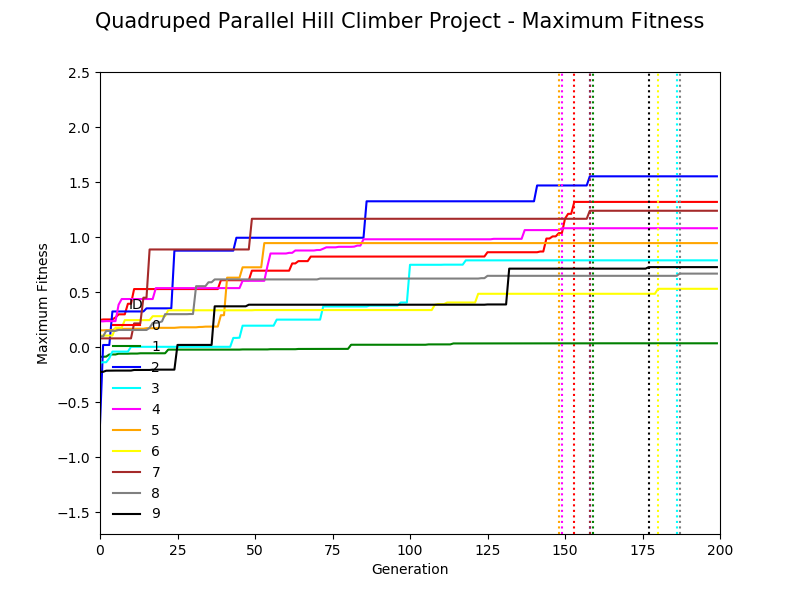
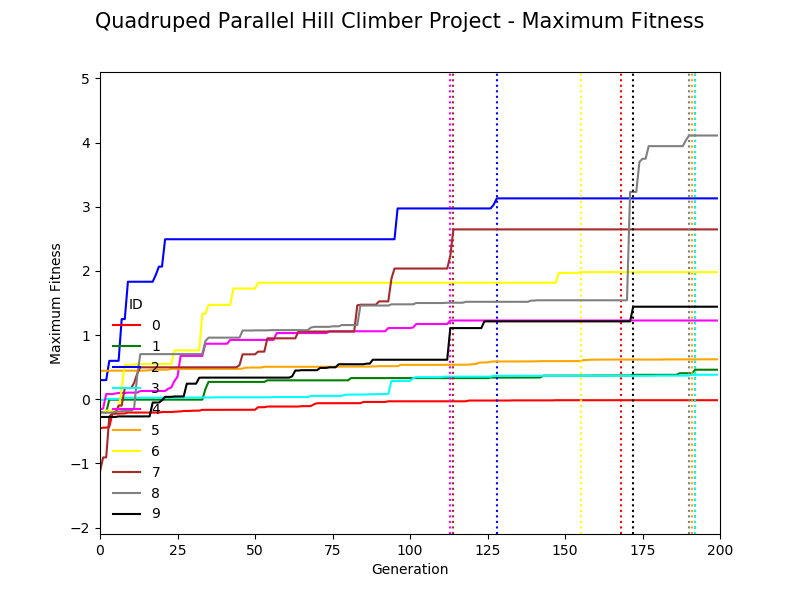
Set random_seed to 87654321, L to 0.4 and tau to 0.5.

diff --git a/quadruped/robot.py b/quadruped/robot.py
@@ -87,7 +87,7 @@ class ROBOT:
         SN3 = sim.send_sensor_neuron( sensor_id=self.S[3] )
         self.SN = {0:SN0, 1:SN1, 2:SN2, 3:SN3}
         # joint motor neurons
-        tau = 1.0
+        tau = 0.5
         MN4 = sim.send_motor_neuron( joint_id=self.J[0], tau=tau )
         MN5 = sim.send_motor_neuron( joint_id=self.J[1], tau=tau )
         MN6 = sim.send_motor_neuron( joint_id=self.J[2], tau=tau )

diff --git a/quadruped/geneticAlgorithm.py b/quadruped/geneticAlgorithm.py
@@ -13,7 +13,7 @@ import matplotlib.pyplot as plt
 
 parent_blind_play = True
 save_best_individual = True
-random_seed = 987654321
+random_seed = 87654321
 
 tlim = 500  # upper limit of simulation time steps
 glim = 200  # upper limit of generation iterations

diff --git a/quadruped/parallelHillClimber.py b/quadruped/parallelHillClimber.py
@@ -12,7 +12,7 @@ import matplotlib.pyplot as plt
 
 parent_blind_play = True
 save_best_individual = True
-random_seed = 987654321
+random_seed = 87654321
 
 tlim = 500  # upper limit of simulation time steps
 glim = 200  # upper limit of generation iterations

diff --git a/quadruped/constants.py b/quadruped/constants.py
@@ -1,5 +1,5 @@
 """ CS206 Spring 2017 ludobots -- Project Quadruped
     https://www.reddit.com/r/ludobots/wiki/pyrosim/quadruped
 """
-L = 0.2   # Leg length
+L = 0.4   # Leg length
 R = L/5   # Leg radius
